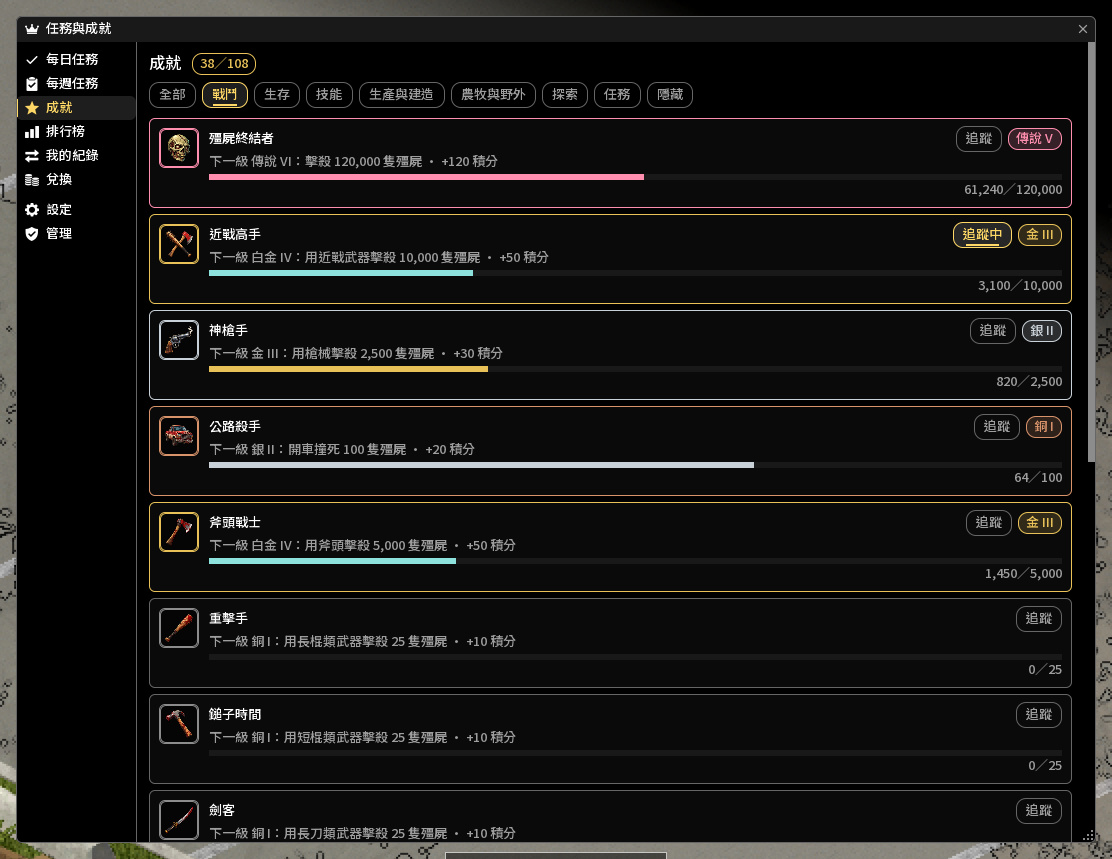
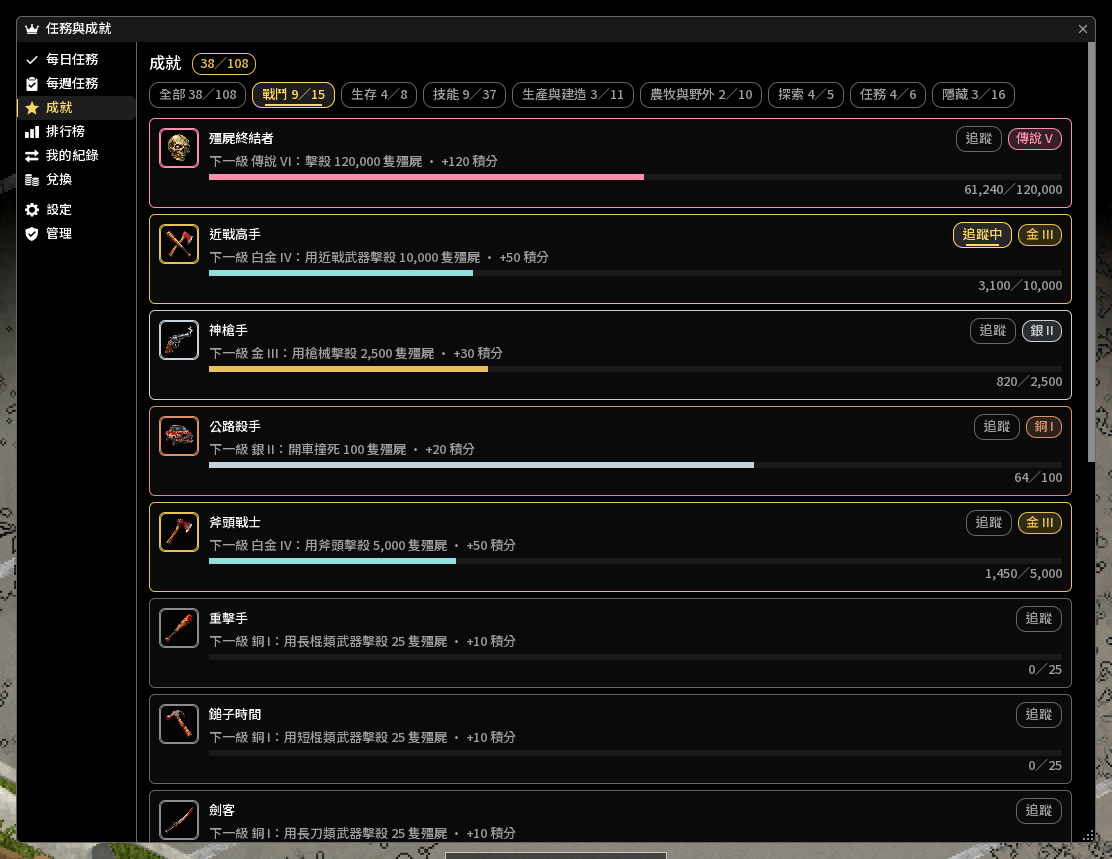
修正異常紀錄的「查看」沒反應；異常頁加說明；成就分類標出數量
試玩回饋第二輪（quest-playtest-1024b）：
- 「查看」按了沒反應：管理頁的表格列（Flow:cells 的 Row）疊在按鈕上面。ISUIElement:new 預設收滑鼠、
  ISUIElement:onMouseUp 回 nil，引擎把這當成已處理（UIElement.java:1331-1342），按鈕只收到 onMouseUpOutside。
  表格列改成不收滑鼠（全部管理表格都受益，滾輪在列上也交給頁面）；「查看」後捲回頁首，帳號資料就在最上面。
- 異常紀錄標題下加說明（IGUI_MQ_Admin_AnomNote，16 語）：每分鐘上限、超過的不算、結算名單只標示、查看做什麼。
- 每筆異常原本顯示的是被丟掉的量，字面卻是「1 分鐘 N」；改顯示那 1 分鐘的總數（上限＋丟掉的量）。
- 成就頁每個分類按鈕（含全部）寫「已解鎖／總數」；管理「成就門檻」的分類選單寫每類幾項（IGUI_MQ_Admin_CatCount）。
- README 與 Steam 指南中英補上這些；經濟系統版本寫成 42.21.0-0.23.0 起。文件圖 03、08 重產。

驗證：ui-mp CH／EN／RU quest-ui-*-1024k 全部 RESULT PASS steps=60 checks=97、fails=0、SHOTS 45 distinct=45；
新的 anom-view-click 用引擎派送點「查看」（control=true：讓列重新收滑鼠時點了沒反應），UI ach chips 加總等於全部。

Changed region(s): [[0.0, 0.0, 0.5504, 0.454], [0.1529, 0.0908, 0.9173, 0.1513]]

diff --git a/STEAM_GUIDE_EN.md b/STEAM_GUIDE_EN.md
@@ -128,7 +128,7 @@ Daily and weekly quests, achievements, season leaderboards and titles; pair it w
 [tr][td]Hidden achievement (1 tier)[/td][td]30, some give a title[/td][/tr]
 [/table]
 [list]
-[*] [b]About 110 in total[/b]: 107 built in; a server may add custom achievements or achievements from other mods.
+[*] [b]About 110 in total[/b]: 107 built in; a server may add custom achievements or achievements from other mods. Each category button shows unlocked/total.
 [*] [b]Next tier[/b]: every achievement shows the next tier's threshold and points.
 [*] [b]More tiers[/b]: admins can add up to 10 tiers; tier 5 and up are called "Legend".
 [*] [b]One-life achievements[/b]: those marked "One life" use this life's stats and start over after death; the rest use your all-time totals across characters.
@@ -239,7 +239,7 @@ The server needs Minidoracat Economy (multiplayer only). The Exchange page on th
 [*] [b]Refunded[/b]: if your economy account cannot receive coins, the points come back and you are asked to contact an admin.
 [*] [b]No reply[/b]: press "Ask again" to check the result; asking again never exchanges twice.
 [*] [b]Imported achievements[/b]: points from achievements imported mid-save never reach your balance and cannot be exchanged.
-[*] [b]Exchange history[/b]: once you have exchanged, the Exchange page lists the last 10 below the balance card (time, points to coins, Queued / Credited / Points returned). In the Economy admin ledger the reason reads "Quest points exchange"; with Economy versions after 42.21.0-0.22.0, your wallet statement and the receipts on the Economy admin's Player page read it too.
+[*] [b]Exchange history[/b]: once you have exchanged, the Exchange page lists the last 10 below the balance card (time, points to coins, Queued / Credited / Points returned). In the Economy admin ledger the reason reads "Quest points exchange"; from Economy 42.21.0-0.23.0 on, your wallet statement and the receipts on the Economy admin's Player page read it too.
 [/list]
 === 🧰 Settings
 {{img:07-settings-en.jpg}}
@@ -305,7 +305,7 @@ Open "Admin" on the left of the window; only roles listed in the "Admin roles" s
 [*] [b]Batch edits[/b]: tick several achievements to multiply thresholds or points, or add a tier.
 [*] [b]Single edit[/b]: threshold, points and title for each tier, up to 10 tiers.
 [*] [b]Custom achievements[/b]: add one from an existing stat (name, category, thresholds, points), or delete it.
-[*] [b]Hidden achievements[/b]: pick the Hidden category; each row lists what unlocks it and the hint players see.
+[*] [b]Hidden achievements[/b]: pick the Hidden category; each row lists what unlocks it and the hint players see. Edit changes their thresholds, points and titles. A custom achievement cannot be made hidden, and the hint text cannot be changed.
 [/list]
 [h3]Quests[/h3]
 [list]
@@ -326,8 +326,8 @@ Open "Admin" on the left of the window; only roles listed in the "Admin roles" s
 [/list]
 [h3]Players[/h3]
 [list]
-[*] [b]Anomalies[/b]: today or the last 7 days, records of a stat going over its per-minute limit.
-[*] [b]Look up an account[/b]: three point numbers, achievements, anomalies this season, whether it is removed from the leaderboards.
+[*] [b]Anomalies[/b]: today or the last 7 days, records of a stat going over its per-minute limit. Every stat has one (120 zombie kills by default, for example); each row shows that minute's total and the limit. The excess is not counted, so it does not advance quests or achievements.
+[*] [b]Look up an account[/b]: View on a row, or type the account, lists at the top of the page its three point numbers, achievements, anomalies this season and whether it is removed from the leaderboards.
 [*] [b]Revoke achievements[/b]: down to a chosen tier, or all of it.
 [*] [b]Remove from or return to the leaderboards[/b]: data is kept. Revoking and removing require a reason and record who did it.
 [/list]

diff --git a/STEAM_GUIDE.md b/STEAM_GUIDE.md
@@ -128,7 +128,7 @@ https://steamcommunity.com/sharedfiles/filedetails/?id=WORKSHOP_ID
 [tr][td]隱藏成就（1 級）[/td][td]30，部分給稱號[/td][/tr]
 [/table]
 [list]
-[*] [b]共約 110 項[/b]：內建 107 項，伺服器可能另外加自訂成就或其他 MOD 的成就。
+[*] [b]共約 110 項[/b]：內建 107 項，伺服器可能另外加自訂成就或其他 MOD 的成就。每個分類按鈕寫出已解鎖／總數。
 [*] [b]下一級[/b]：每項成就寫出下一級的門檻與積分。
 [*] [b]更多等級[/b]：管理員可以加到 10 級，第 5 級起叫「傳說」。
 [*] [b]單命成就[/b]：標「單命」的看這條命的統計，死亡後重新算；其他看跨角色的累計。
@@ -239,7 +239,7 @@ https://steamcommunity.com/sharedfiles/filedetails/?id=WORKSHOP_ID
 [*] [b]退回[/b]：你的經濟帳戶不能收款時，積分退回並請你聯絡管理員。
 [*] [b]沒有回應[/b]：按「再問一次」查詢結果，再問不會換兩次。
 [*] [b]匯入的成就[/b]：中途加入時匯入的成就積分不進餘額，不能兌換。
-[*] [b]兌換紀錄[/b]：換過之後，「兌換」頁下方列出最近 10 筆（時間、積分換多少倖存幣、已排隊／已入帳／積分已退回）。服主在經濟管理台的金流明細看到的原因是「任務積分兌換」；經濟系統 42.21.0-0.22.0 之後的版本，你的錢包對帳單與管理台「玩家」頁的收據也寫「任務積分兌換」。
+[*] [b]兌換紀錄[/b]：換過之後，「兌換」頁下方列出最近 10 筆（時間、積分換多少倖存幣、已排隊／已入帳／積分已退回）。服主在經濟管理台的金流明細看到的原因是「任務積分兌換」；經濟系統 42.21.0-0.23.0 起，你的錢包對帳單與管理台「玩家」頁的收據也寫「任務積分兌換」。
 [/list]
 === 🧰 設定
 {{img:07-settings-zh.jpg}}
@@ -305,7 +305,7 @@ https://steamcommunity.com/sharedfiles/filedetails/?id=WORKSHOP_ID
 [*] [b]批次調整[/b]：勾選多項成就，一次把門檻或積分乘上倍率，或加一級。
 [*] [b]單項編輯[/b]：每一級的門檻、積分與稱號，最多 10 級。
 [*] [b]自訂成就[/b]：用現有統計新增（名稱、分類、門檻、積分），也能刪除。
-[*] [b]隱藏成就[/b]：分類選「隱藏」，每項下面列出解鎖條件和玩家看到的提示。
+[*] [b]隱藏成就[/b]：分類選「隱藏」，每項下面列出解鎖條件和玩家看到的提示；門檻、積分與稱號可以用「編輯」改。自訂成就不能設成隱藏，提示文字也不能改。
 [/list]
 [h3]任務[/h3]
 [list]
@@ -326,8 +326,8 @@ https://steamcommunity.com/sharedfiles/filedetails/?id=WORKSHOP_ID
 [/list]
 [h3]異常與帳號[/h3]
 [list]
-[*] [b]異常紀錄[/b]：今天或最近 7 天，有人某項統計一分鐘超過上限的紀錄。
-[*] [b]查帳號[/b]：三個積分、成就數、本季異常數、是否被移出排行榜。
+[*] [b]異常紀錄[/b]：今天或最近 7 天，有人某項統計一分鐘超過上限的紀錄。每項統計每分鐘有上限（例如擊殺殭屍預設 120），每筆寫出那 1 分鐘的總數與上限；超過的部分不算進統計，任務與成就也不會因此前進。
+[*] [b]查帳號[/b]：按某一筆的「查看」或輸入帳號，頁面上方列出三個積分、成就數、本季異常數、是否被移出排行榜。
 [*] [b]撤銷成就[/b]：指定撤到第幾級或全部撤銷。
 [*] [b]移出或放回排行榜[/b]：資料保留。撤銷與移出都要寫原因，會記下操作者。
 [/list]
